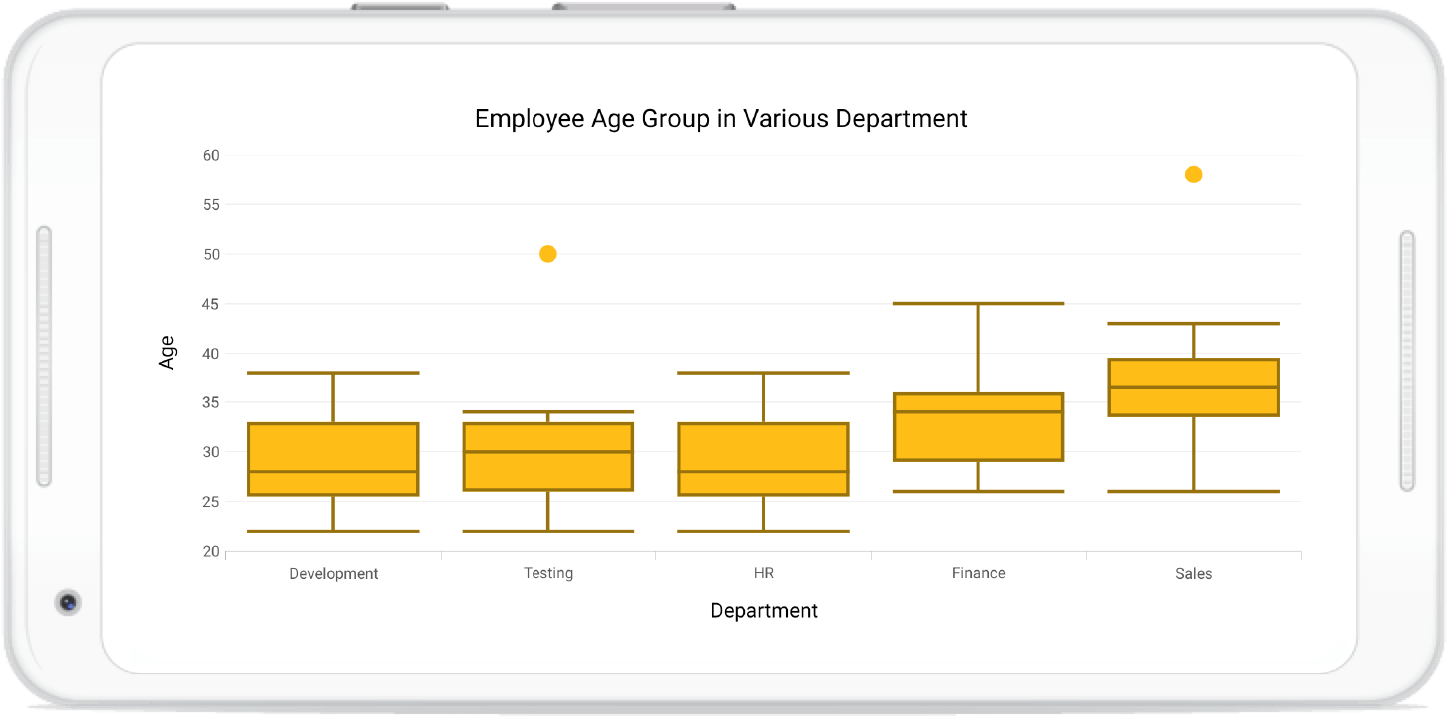
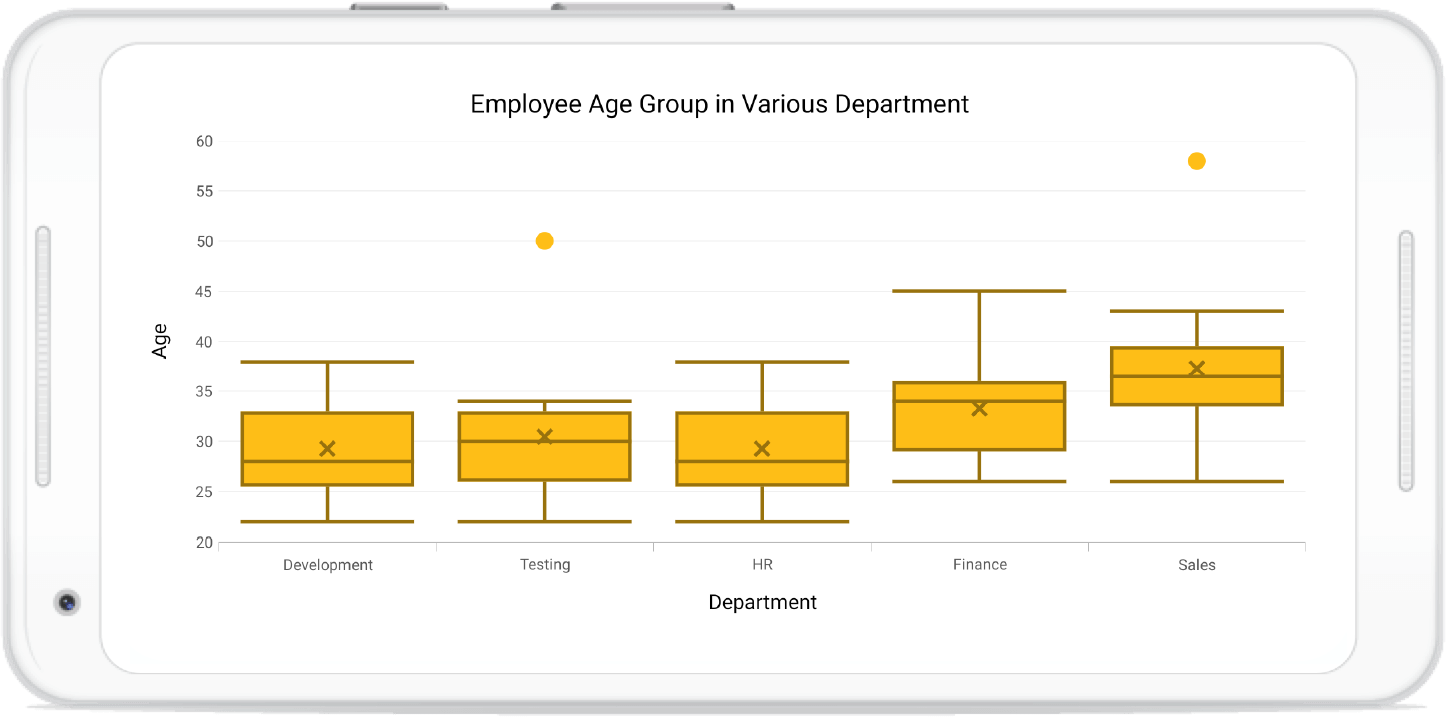
Changed the image in BoxAndWhiskerSeries

diff --git a/xamarin-android/SfChart/charttypes.md b/xamarin-android/SfChart/charttypes.md
@@ -734,7 +734,7 @@ chart.Series.Add(boxPlotSeries);
 
 {% endhighlight %}
 
-![BoxAndWhisker chart type in Xamarin.Android Chart](charttypes_images/BOxAndWhisker_Exclusive.png)
+![BoxAndWhisker chart type in Xamarin.Android Chart](charttypes_images/BOxAndWhisker_Exclusive_Median.png)
 
 ### Customize the series box mode
 
@@ -744,7 +744,7 @@ The series box plotting mode can be changed using the [`BoxPlotMode`] property o
 * [`Inclusive`] - The quartile values are calculated using the formula (N−1) * P (N count, P percentile), and their index value starts from 0 in the list.
 * [`Normal`] - The quartile values are calculated by splitting the list and getting the median values.
 
-By default,[`BoxPlotMode`] value is [`Exclusive`].
+By default, [`BoxPlotMode`] value is [`Exclusive`].
 
 The following code shows how to set the [`BoxPlotMode`] value as [`Inclusive`].
 
@@ -767,7 +767,7 @@ chart.Series.Add(boxPlotSeries);
 
 {% endhighlight %}
 
-![BoxAndWhisker chart type in Xamarin.Android Chart](charttypes_images/BOxAndWhisker_Inclusive.png)
+![BoxPlotMode support for BoxAndWhiskerSeries in Xamarin.Android Chart](charttypes_images/BOxAndWhisker_Inclusive.png)
 
 ### ShowMedian
 
@@ -791,7 +791,7 @@ chart.Series.Add(boxPlotSeries);
 
 {% endhighlight %}
 
-![BoxAndWhisker chart type in Xamarin.Android Chart](charttypes_images/BOxAndWhisker_Median.png)
+![ShowMedian support for BoxAndWhisker series in Xamarin.Android Chart](charttypes_images/BOxAndWhisker_Exclusive_Median.png)
 
 ### SymbolType
 
@@ -818,7 +818,7 @@ chart.Series.Add(boxPlotSeries);
 
 {% endhighlight %}
 
-![BoxAndWhisker chart type in Xamarin.Android Chart](charttypes_images/BOxAndWhisker_SymbolType.png)
+![Outlier for BoxAndWhisker series in Xamarin.Ansrois Chart](charttypes_images/BOxAndWhisker_SymbolType.png)
 
 ## Bar Chart
 
